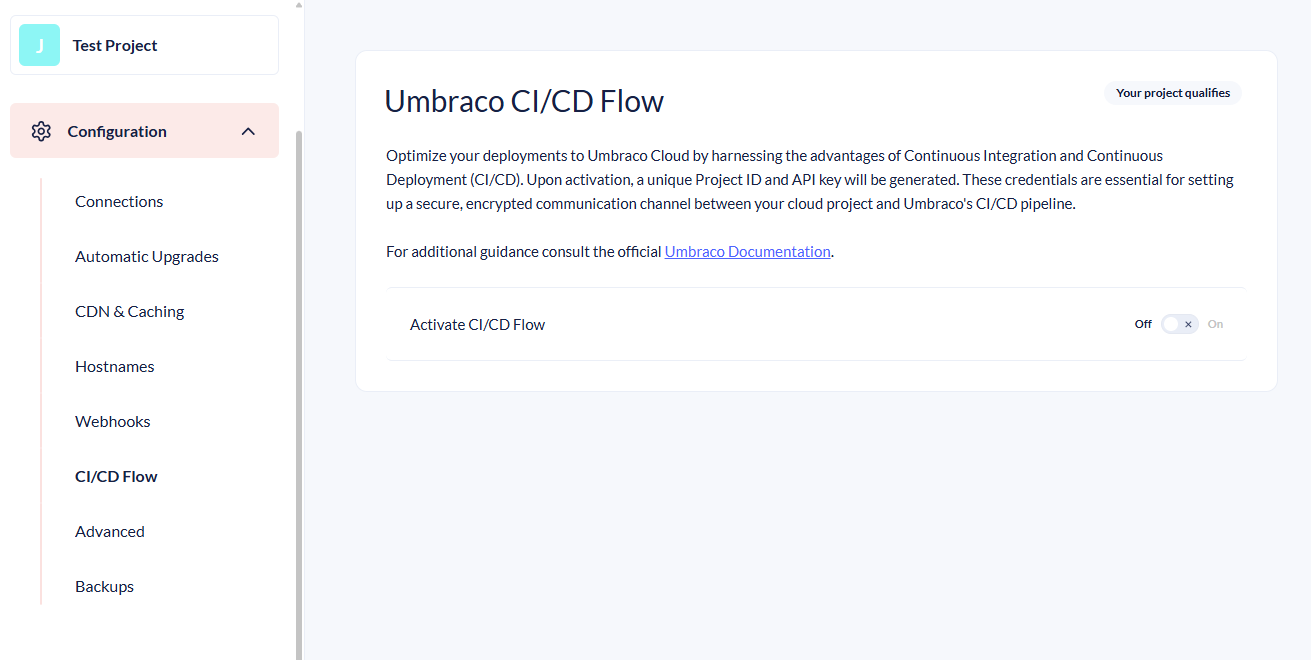
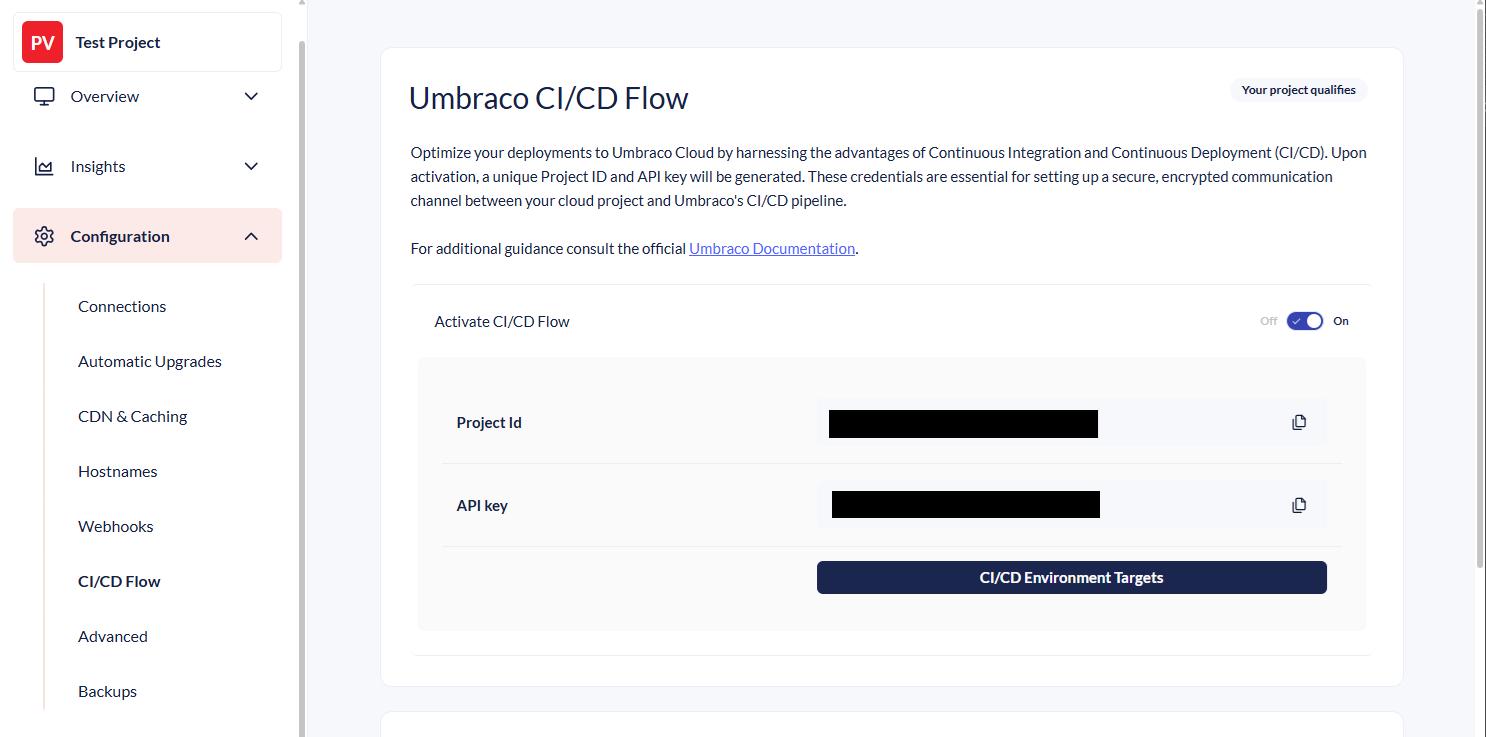
add mention of new artifact list on CI/CD page & add new Cloud release notes

diff --git a/umbraco-cloud/release-notes/overview-2026/2026-01-releasenotes.md b/umbraco-cloud/release-notes/overview-2026/2026-01-releasenotes.md
@@ -1,0 +1,33 @@
+# January 2026
+
+## Key Takeaways
+
+* **CI/CD Flow page** - CI/CD Flow has been moved from the `Configuration -> Advanced` page to a standalone page `Configuration -> CI/CD Flow`
+* **Enhanced debug information for CI/CD deployments** - Added a new "See More" link on the `Insights -> Project History` page for CI/CD Flow deployment events. That leads to a new page with logs, artifact info, etc. about the deployment.
+* **List of deployment artifacts** - Added a list of deployment artifacts on the `Configuration -> CI/CD Flow` page with a download link to help with debugging
+
+## CI/CD Flow page
+
+The CI/CD flow on the `Configuration -> Advanced` page has been moved to `Configuration -> CI/CD Flow`. TThis has been done in preparation for comming enhancements to the CI/CD Flow that will include more configuration and more feedback on the deployments being sent back to the users.
+
+## Enhanced debug information for CI/CD deployments
+
+On the `Insights -> Project History` page you will now see CI/CD Flow deployments, as well as a "See More" button that leads to a page that has much more useful information.
+
+![Project History page with new CICD Deployment](../images/project-history-cicd.png)
+
+This detail page for the event contains:
+
+- Metadata for the deployment
+- Metadata about the deployment artifact, including a download link
+- The configured deployment options
+- The process log
+- The Kudu log
+
+This makes debugging deployments that went wrong much easier.
+
+## List of deployment artifacts
+
+Added a list of deployment artifacts on the `Configuration -> CI/CD Flow` page with a download link to help with debugging:
+
+![List of deployment artifacts on the CI/CD Flow page](../images/cicd-artifacts.png)

diff --git a/umbraco-cloud/release-notes/overview-2026/overview-2026.md b/umbraco-cloud/release-notes/overview-2026/overview-2026.md
@@ -1,0 +1,11 @@
+---
+description: Get an overview of the release notes for each month in 2026.
+---
+
+# Overview 2026
+
+## [January 2026](2026-01-releasenotes.md)
+
+* **CI/CD Flow page** - CI/CD Flow has been moved from the `Configuration -> Advanced` page to a standalone page `Configuration -> CI/CD Flow`
+* **Enhanced debug information for CI/CD deployments** - Added a new "See More" link on the `Insights -> Project History` page for CI/CD Flow deployment events. That leads to a new page with logs, artifact info, etc. about the deployment.
+* **List of deployment artifacts** - Added a list of deployment artifacts on the `Configuration -> CI/CD Flow` page with a download link to help with debugging

diff --git a/umbraco-cloud/release-notes/archive/README.md b/umbraco-cloud/release-notes/archive/README.md
@@ -6,6 +6,10 @@ This section contains release note overviews from previous years — perfect for
 
 ## Release Notes by Year
 
+{% content-ref url="overview-2025/" %}
+[overview-2025](overview-2025/)
+{% endcontent-ref %}
+
 {% content-ref url="overview-2024/" %}
 [overview-2024](overview-2024/)
 {% endcontent-ref %}
@@ -20,4 +24,4 @@ This section contains release note overviews from previous years — perfect for
 
 ### Latest Updates
 
-Looking for the latest updates? See the[ Release Notes Overview 2025](../overview-2025/overview-2025.md).
+Looking for the latest updates? See the[ Release Notes Overview 2026](../overview-2026/overview-2026.md).

diff --git a/umbraco-cloud/build-and-customize-your-solution/set-up-your-project/project-settings/README.md b/umbraco-cloud/build-and-customize-your-solution/set-up-your-project/project-settings/README.md
@@ -118,8 +118,10 @@ You can configure deployment webhooks for your environments in this section. Web
 The CI/CD Flow section allows you to manage settings related to CI/CD deployments:
 
 * [Umbraco CI/CD Flow](../../handle-deployments-and-environments/umbraco-cicd/)
+* See a paginated list of artifacts that has been pushed to your project via the CI/CD pipeline.
 
 ![CI/CD Flow settings](images/cicd-flow-page.png)
+![CI/CD Flow Artifact list](images/cicd-artifacts.png)
 
 ### Advanced
 
